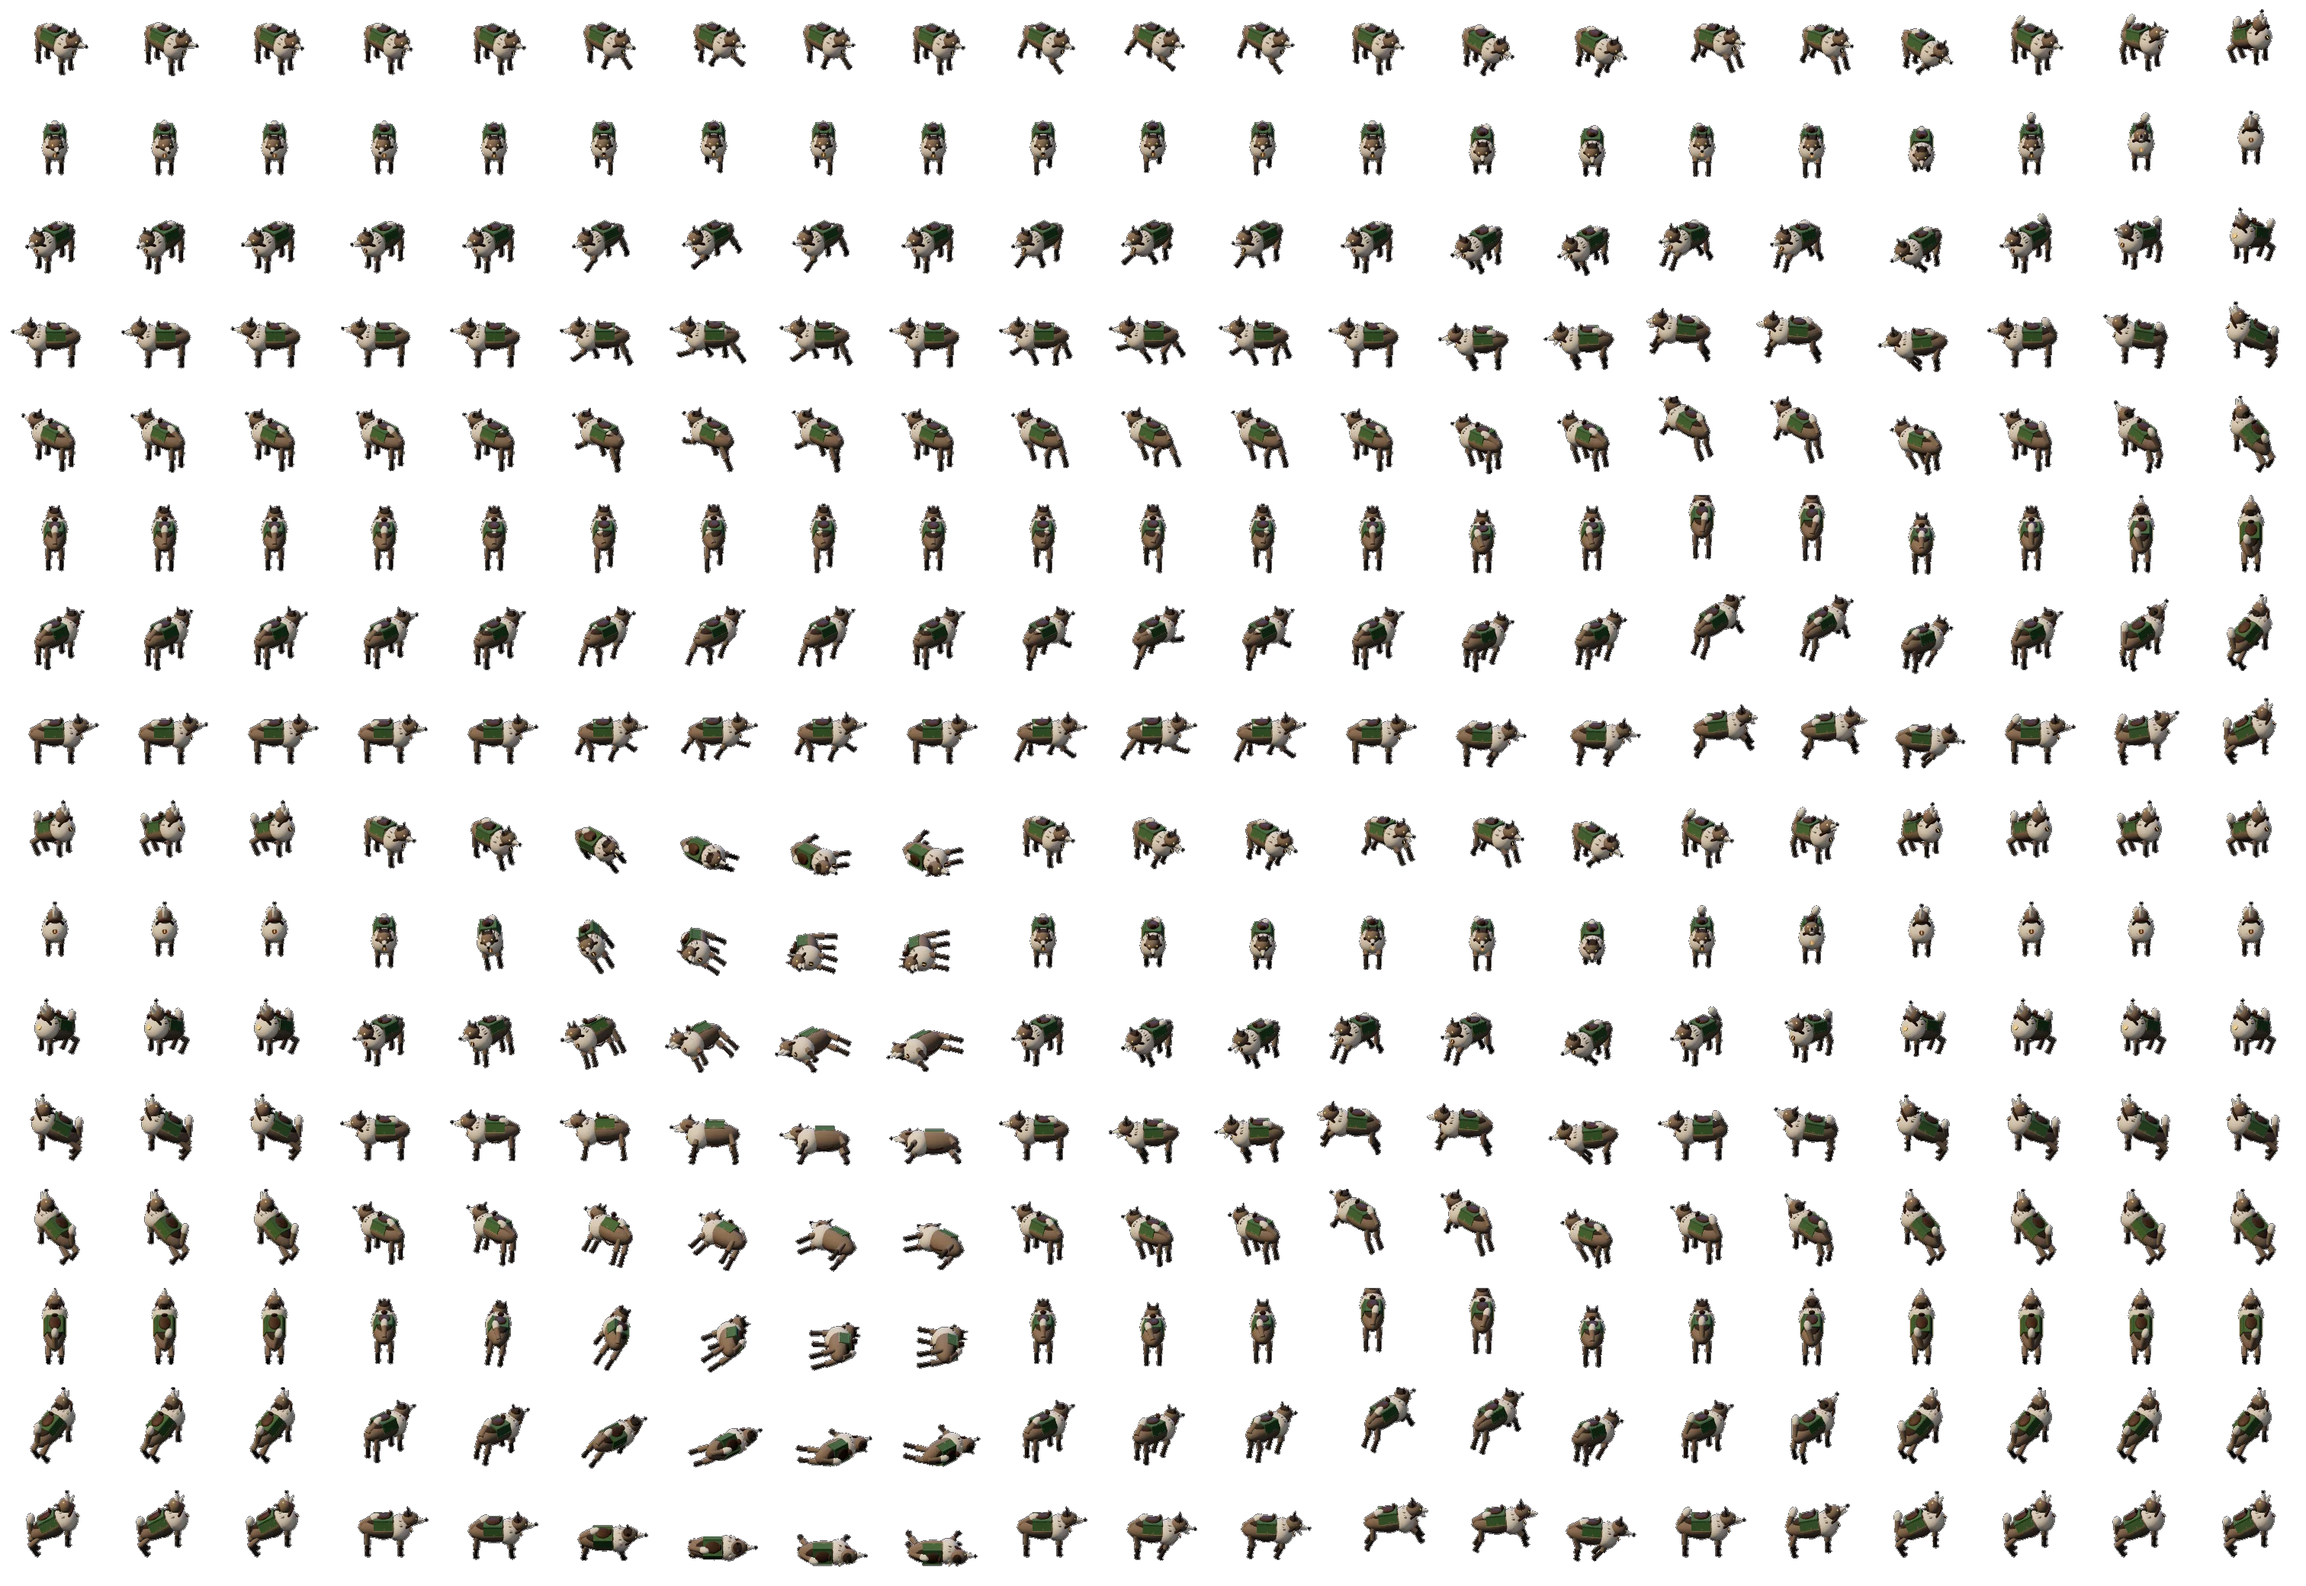
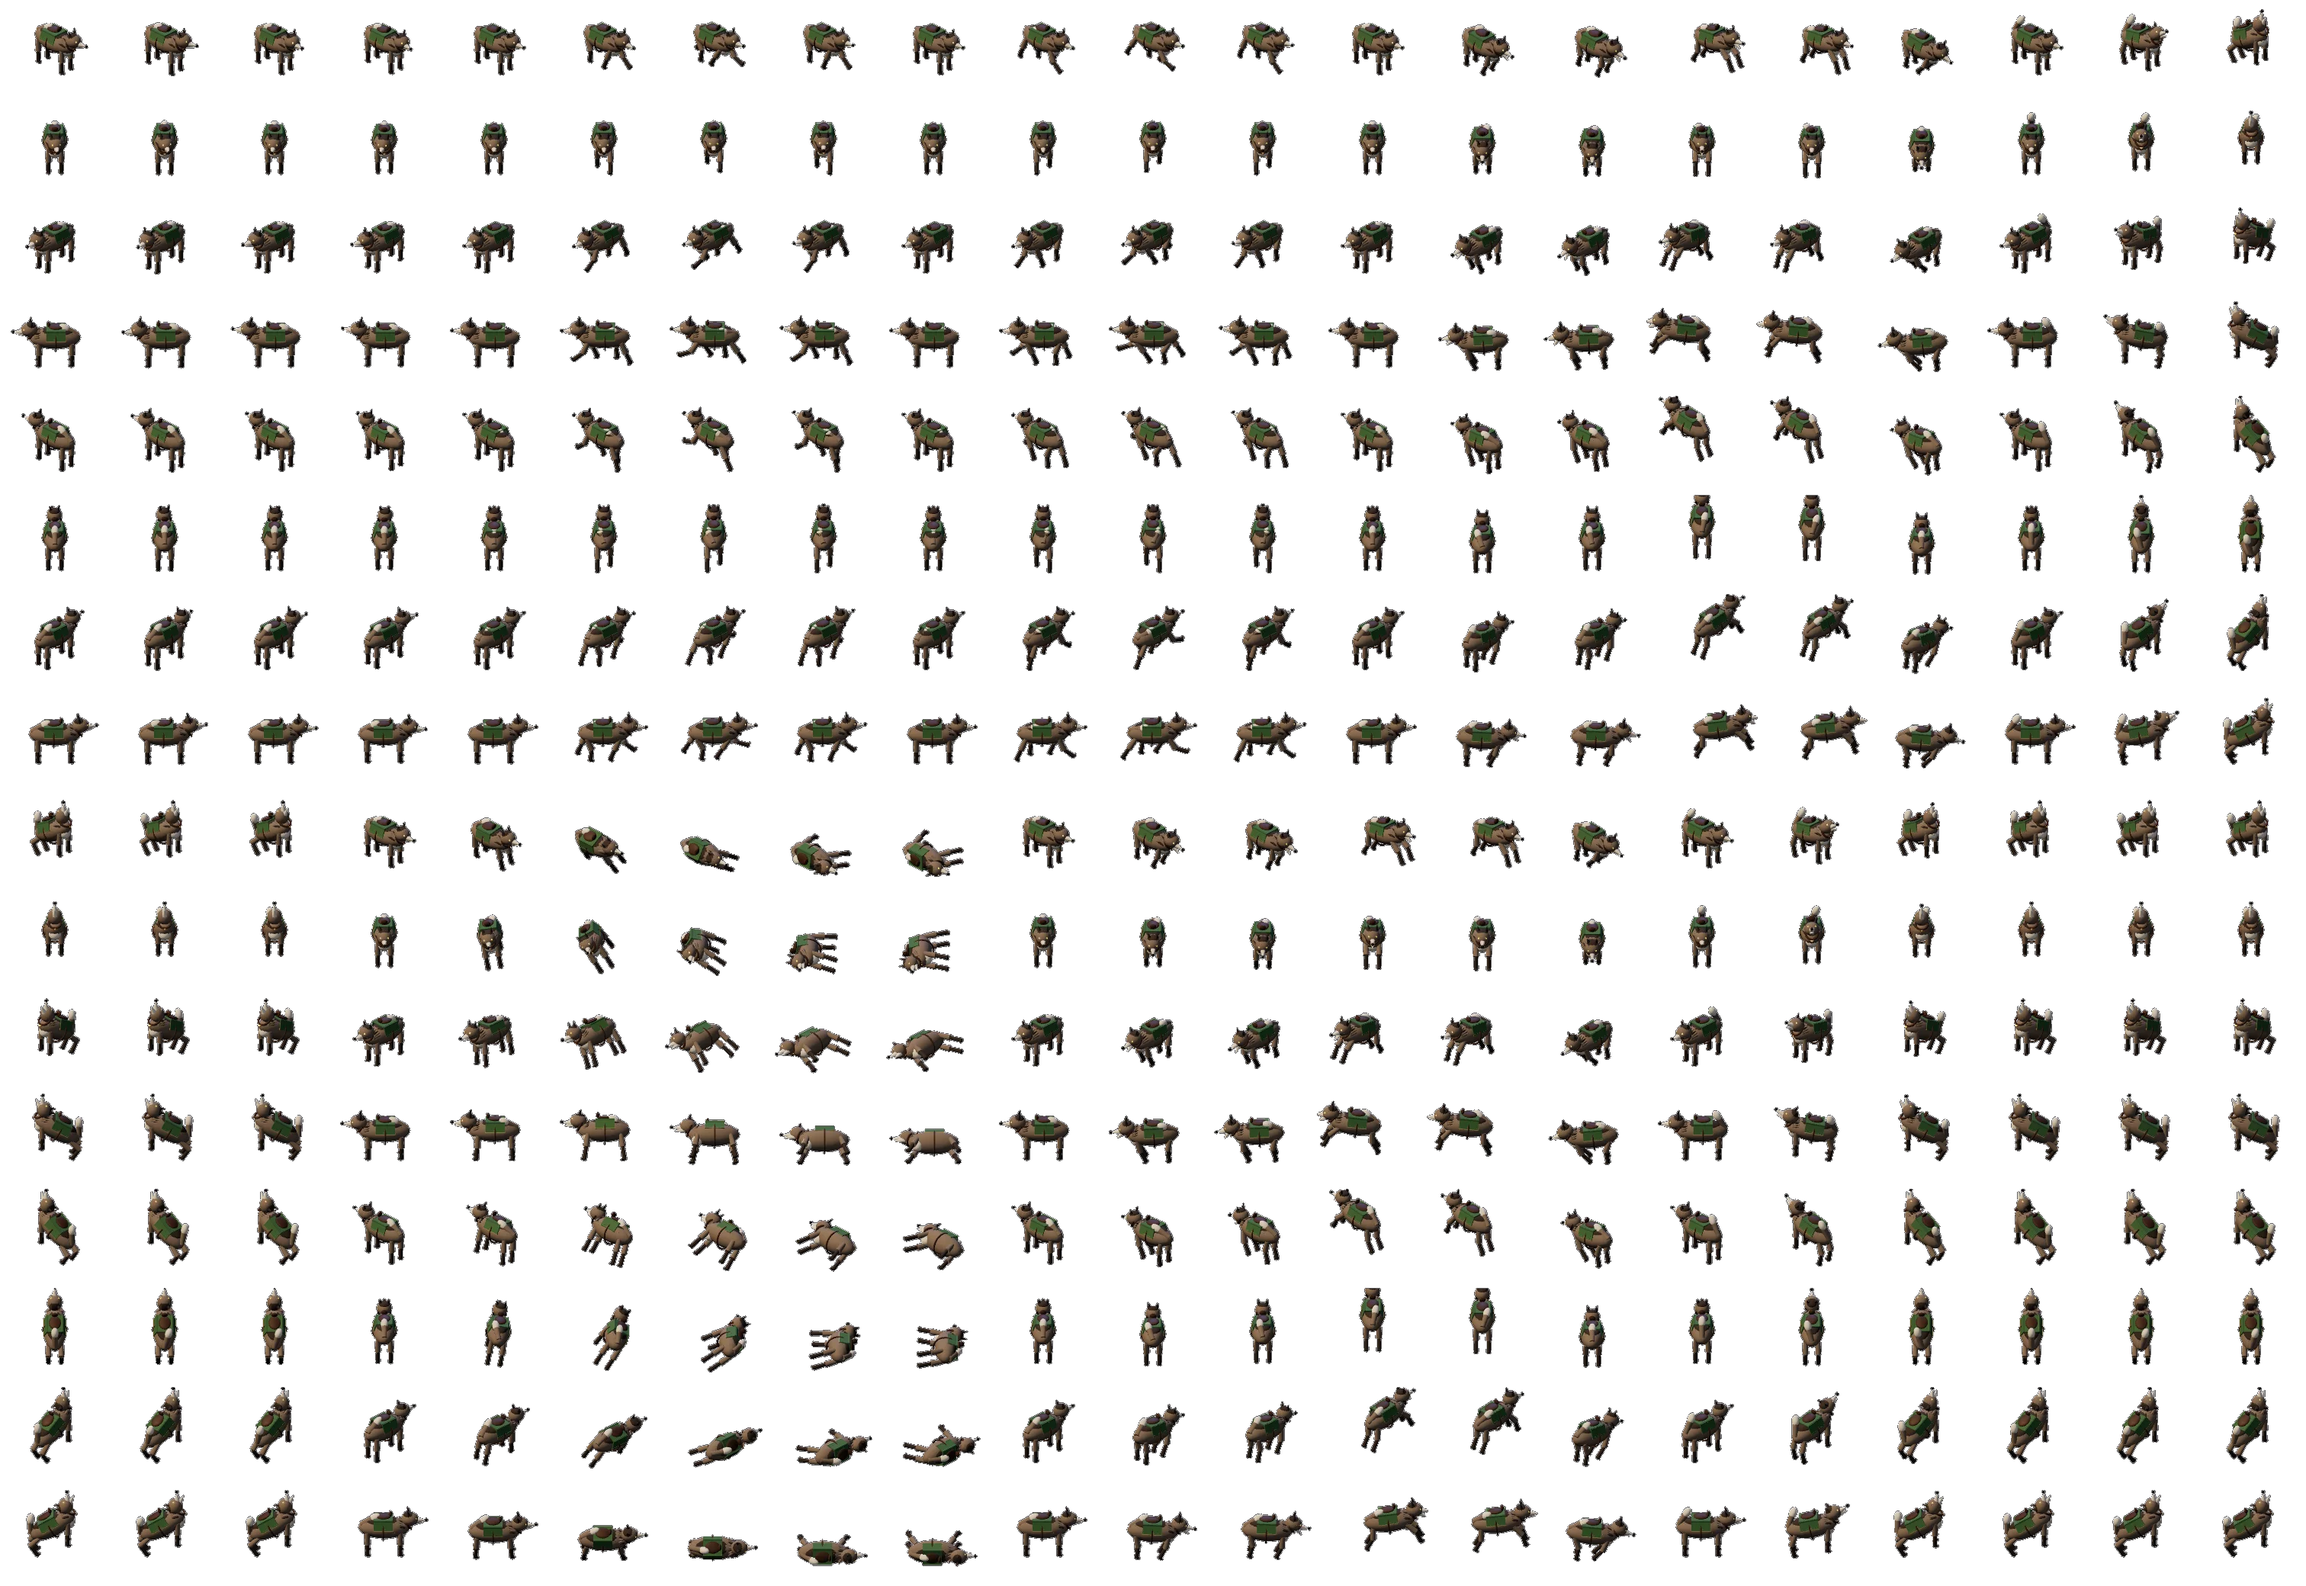
Ajuste da coleira, da cinta e do peito do lobo e do urso (marco 40, D-165)

diff --git a/src/render/vivos/feras-vivas.ts b/src/render/vivos/feras-vivas.ts
@@ -69,7 +69,8 @@ function arreio() {
 /** A coleira com o pingente da runa, no pescoço (`raio`), virada para a frente. */
 function coleira(pai: THREE.Object3D, raio: number, a: ReturnType<typeof arreio>, y: number, z: number): void {
   const anel = new THREE.Mesh(new THREE.TorusGeometry(raio, raio * 0.18, 8, 20), a.couro);
-  em(anel, 0, y, z, Math.PI / 2 - 0.5);
+  // O anel fica em volta do pescoço (o eixo dele aponta para a frente), um pouco inclinado com o pescoço.
+  em(anel, 0, y, z, -0.5);
   pai.add(anel);
   const pingente = new THREE.Mesh(new THREE.CylinderGeometry(raio * 0.32, raio * 0.32, raio * 0.1, 10), a.bronze);
   em(pingente, 0, y - raio * 0.95, z + raio * 0.55, Math.PI / 2 - 0.3);
@@ -99,7 +100,7 @@ function sela(pai: THREE.Object3D, a: ReturnType<typeof arreio>, y: number, larg
   em(cepilho, 0, y + 0.09, z + compr * 0.38);
   pai.add(cepilho);
   const cinta = new THREE.Mesh(new THREE.TorusGeometry(largura * 0.62, 0.016, 6, 24), a.couro);
-  em(cinta, 0, y - largura * 0.62, z, 0, Math.PI / 2);
+  em(cinta, 0, y - largura * 0.62, z);
   pai.add(cinta);
 }
 
@@ -141,12 +142,12 @@ export function loboCompanheiro(): Fera {
   const tronco = pivo('tronco', apoio, 0, 0, 0.32);
   tronco.add(bola(0.22, pelo, 1, 0.95, 2.2));
   tronco.add(em(bola(0.17, dorso, 1, 0.55, 2), 0, 0.12, -0.02));
-  tronco.add(em(bola(0.22, claro, 1.08, 1.12, 1), 0, -0.02, 0.28));
+  tronco.add(em(bola(0.15, claro, 0.85, 1, 0.8), 0, -0.07, 0.3));
   // A juba: tufos em leque em volta do pescoço.
   for (let i = 0; i < 9; i++) {
     const t = (i / 8 - 0.5) * 2.4;
-    const tufo = new THREE.Mesh(new THREE.ConeGeometry(0.06, 0.2, 5), i % 2 ? claro : pelo);
-    em(tufo, Math.sin(t) * 0.17, 0.06 + Math.cos(t) * 0.12, 0.34, -0.9, 0, -t * 0.6);
+    const tufo = new THREE.Mesh(new THREE.ConeGeometry(0.045, 0.15, 5), i % 3 ? pelo : dorso);
+    em(tufo, Math.sin(t) * 0.15, 0.04 + Math.cos(t) * 0.11, 0.32, -0.9, 0, -t * 0.6);
     tronco.add(tufo);
   }
   const pescoco = pivo('pescoco', tronco, 0, 0.12, 0.4);
@@ -164,7 +165,7 @@ export function loboCompanheiro(): Fera {
     const olho = bola(0.022, mat(0xffb347, { emissive: 0xff8a00, emissiveIntensity: 0.9, roughness: 0.2 }));
     cabeca.add(em(olho, s * 0.065, 0.035, 0.11));
   }
-  coleira(tronco, 0.15, a, 0.08, 0.42);
+  coleira(tronco, 0.115, a, 0.1, 0.44);
   sela(tronco, a, 0.2, 0.36, 0.36, -0.02);
   const ps = pernas(tronco, [[-0.12, -0.06, 0.3, 0], [0.12, -0.06, 0.3, Math.PI], [-0.12, -0.06, -0.32, Math.PI], [0.12, -0.06, -0.32, 0]], { coxa: pelo, pe: dorso }, { r: 0.058, coxa: 0.24, canela: 0.24, pata: 0.04 });
   const rabo = pivo('rabo', tronco, 0, 0.06, -0.44);
@@ -298,7 +299,7 @@ export function ursoCompanheiro(): Fera {
     cabeca.add(em(bola(0.035, escuro, 1, 1, 0.5), s * 0.13, 0.15, 0.0));
     cabeca.add(em(bola(0.02, mat(0x24140a, { roughness: 0.15, emissive: 0x3a1a00, emissiveIntensity: 0.4 })), s * 0.08, 0.04, 0.16));
   }
-  coleira(tronco, 0.21, a, 0.06, 0.48);
+  coleira(tronco, 0.165, a, 0.08, 0.5);
   sela(tronco, a, 0.29, 0.5, 0.4, -0.05);
   const ps = pernas(tronco, [[-0.2, -0.12, 0.3, 0], [0.2, -0.12, 0.3, Math.PI], [-0.2, -0.12, -0.36, 0], [0.2, -0.12, -0.36, Math.PI]], { coxa: pelo, pe: escuro, garra: marfim }, { r: 0.1, coxa: 0.26, canela: 0.22, pata: 0.085 });
   const rabo = pivo('rabo', tronco, 0, 0.04, -0.6);
